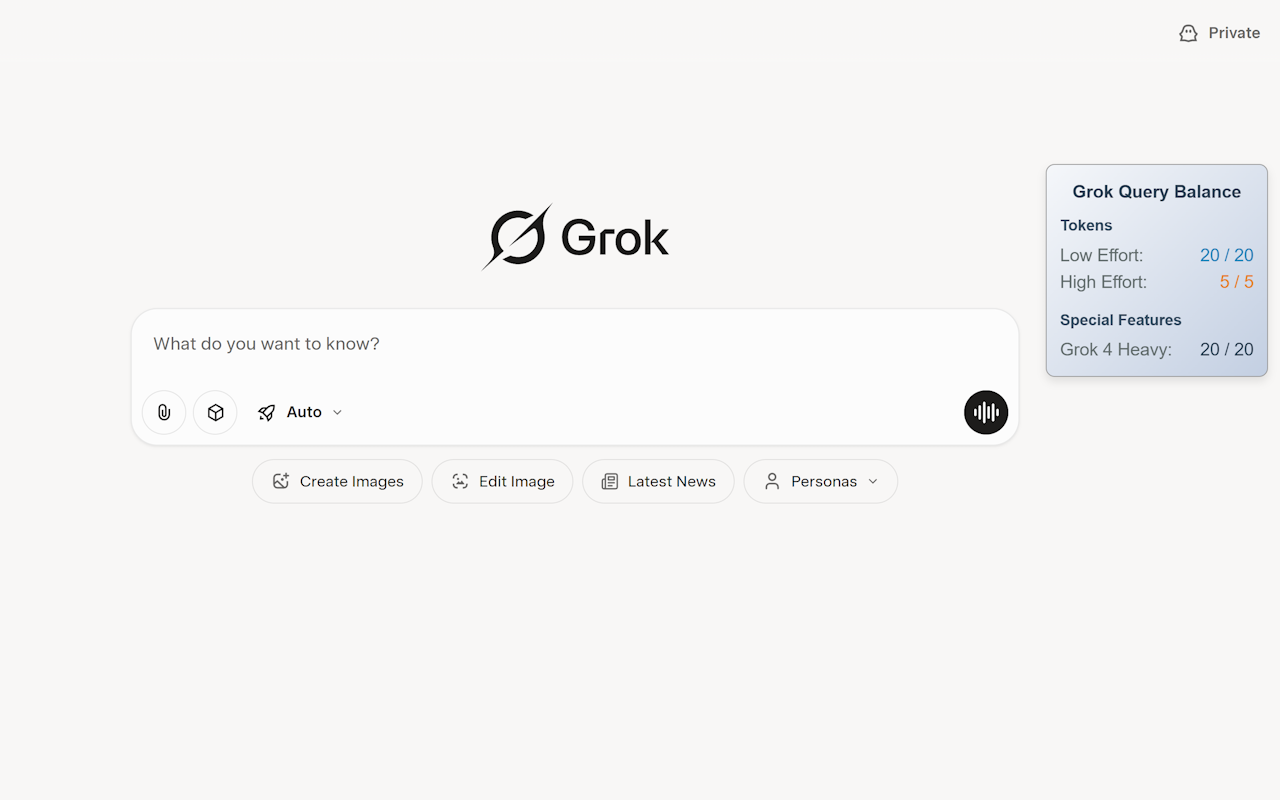
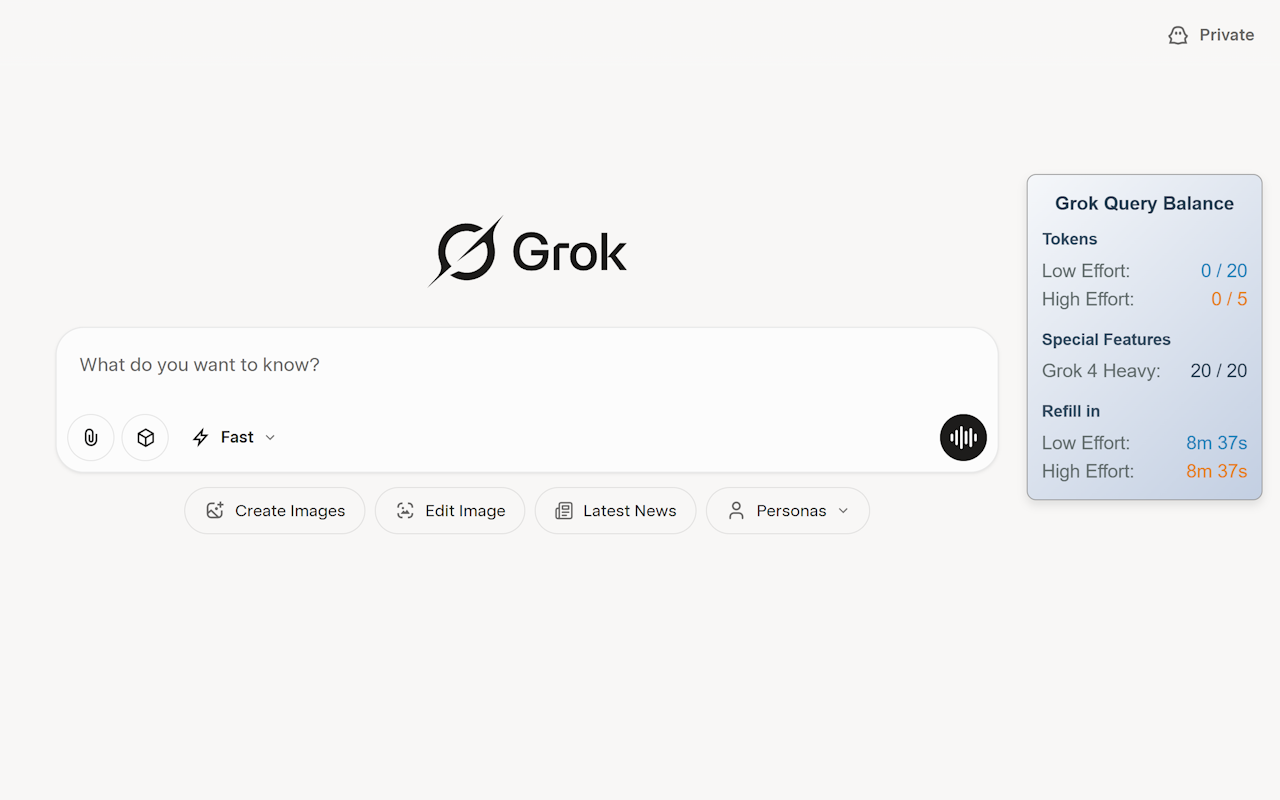
Add files via upload

diff --git a/content.js b/content.js
@@ -42,6 +42,58 @@ function makeDraggable(element) {
   }
 }
 
+function formatWaitTime(seconds) {
+  if (!seconds || seconds <= 0) return "";
+  
+  const minutes = Math.floor(seconds / 60);
+  const remainingSeconds = seconds % 60;
+  
+  if (minutes > 0) {
+    return `${minutes}m ${remainingSeconds}s`;
+  } else {
+    return `${remainingSeconds}s`;
+  }
+}
+
+function getWaitTimeDisplay(data) {
+  const lowEffortWaitTime = data.DEFAULT?.lowEffortRateLimits?.waitTimeSeconds;
+  const highEffortWaitTime = data.DEFAULT?.highEffortRateLimits?.waitTimeSeconds;
+  
+  const hasLowEffortWait = lowEffortWaitTime && lowEffortWaitTime > 0;
+  const hasHighEffortWait = highEffortWaitTime && highEffortWaitTime > 0;
+  
+  if (!hasLowEffortWait && !hasHighEffortWait) {
+    return "";
+  }
+  
+  let waitTimeHtml = `
+    <div style="font-size: 14px; color: #34495e; font-weight: bold; margin-top: 12px; margin-bottom: 4px;">Refill in</div>
+    <div style="display: table; font-size: 16px; width: 100%;">
+  `;
+  
+  if (hasLowEffortWait) {
+    waitTimeHtml += `
+      <div style="display: table-row;">
+        <span style="display: table-cell; padding-right: 12px; color: #5f6a6a;">Low Effort:</span>
+        <span style="display: table-cell; text-align: right; color: #2980b9;">${formatWaitTime(lowEffortWaitTime)}</span>
+      </div>
+    `;
+  }
+  
+  if (hasHighEffortWait) {
+    waitTimeHtml += `
+      <div style="display: table-row;">
+        <span style="display: table-cell; padding-right: 12px; color: #5f6a6a;">High Effort:</span>
+        <span style="display: table-cell; text-align: right; color: #e67e22;">${formatWaitTime(highEffortWaitTime)}</span>
+      </div>
+    `;
+  }
+  
+  waitTimeHtml += `</div>`;
+  
+  return waitTimeHtml;
+}
+
 function createDisplay() {
   if (!displayDiv) {
     displayDiv = document.createElement("div");
@@ -75,6 +127,8 @@ function updateDisplay(data) {
   const shouldFade = (kind, type) => lastData[kind][type] !== null && lastData[kind][type] !== data[kind][type];
 
   if (displayDiv) {
+    const waitTimeDisplay = getWaitTimeDisplay(data);
+    
     displayDiv.innerHTML = `
       <strong style="color: #2c3e50; font-size: 16px; display: block; text-align: center;">Grok Query Balance</strong>
       <div style="margin-top: 8px;">
@@ -97,6 +151,7 @@ function updateDisplay(data) {
           </div>
         </div>
       </div>
+      ${waitTimeDisplay}
     `;
   }
   

diff --git a/CHANGELOG.md b/CHANGELOG.md
@@ -2,6 +2,11 @@
 
 ---
 
+## v1.0.6 - 2025-08-12
+- 新增「Refill in」倒數時間顯示，當額度用完時，會顯示距離下次回補的剩餘時間。
+
+---
+
 ## v1.0.5 - 2025-08-12
 - 移除已淘汰的 Think、DeepSearch、DeeperSearch，符合 xAI 最新政策。  
 - 因應 xAI 已將 Grok 4 下放給免費用戶，現在所有用戶（包含免費與付費）皆一致顯示 High/Low Effort Tokens。
